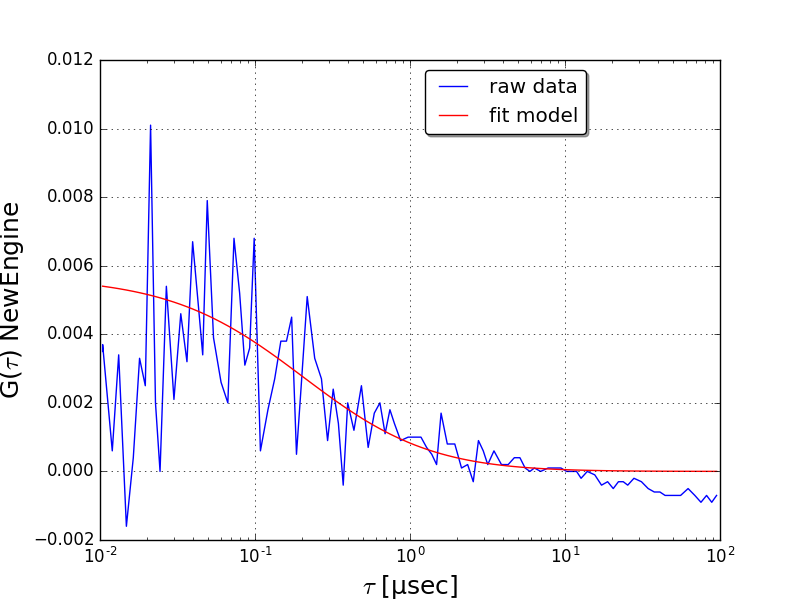
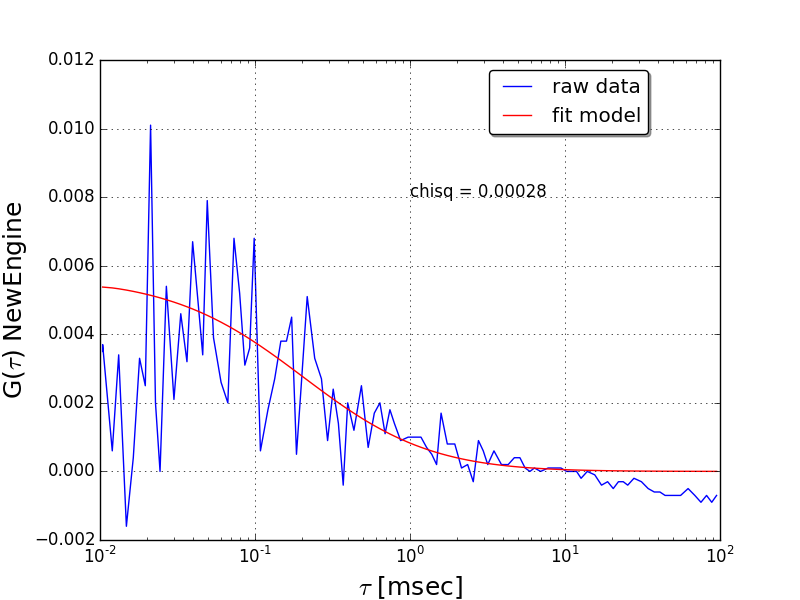
dodanie chi squared
na podstawie dokumnnatacji w scipy https://docs.scipy.org/doc/scipy/reference/generated/scipy.optimize.curve_fit.html

diff --git a/PodFLCS/FIT.py b/PodFLCS/FIT.py
@@ -47,10 +47,12 @@ class FIT:
         self.errT1=perr[2]
         self.errN=perr[3]
         self.fitY=[self.funkcja(x,self.T, self.Tt, self.T1, self.N) for x in X] #wyznacza igreki dopasowania
+        self.r=self.Y-self.funkcja(self.X, *fit[0])
+        self.chisq = sum ((self.r / 1) ** 2)
         return 0
 
     def referuj(self):
-        return[[self.T,self.Tt,self.T1, self.N],[self.errT, self.errTt, self.errT1, self.N],self.fitY]
+        return[[self.T,self.Tt,self.T1, self.N],[self.errT, self.errTt, self.errT1, self.N],self.fitY, self.chisq]
 
     def wykonaj(self):
         self.fitowanie()
@@ -60,16 +62,19 @@ class FIT:
 
 def printNormalizedAverageCurve(tau, G, GFit=None, title=None):
     plt.plot(tau,G,"b", label = "raw data")
+    chisq=None
     try:
         plt.plot(tau,GFit,"r", label = "fit model")
+        chisq = sum(map(lambda x,y: (x-y)**2, G, GFit))
     except ValueError:
         pass
 
     plt.xscale('log', nonposy='clip')
 
-    plt.xlabel(r"$\tau$ "+  u"[\u00B5sec]", fontsize = 18)
+    plt.xlabel(r"$\tau$ "+  "[msec]", fontsize = 18)
     plt.ylabel(r"G($\tau$) "+title, fontsize=18)
-    plt.legend(  bbox_to_anchor=(0.8, 1), fancybox=True, shadow=True)
+    plt.legend(  bbox_to_anchor=(0.9, 1), fancybox=True, shadow=True)
+    plt.text(1, 0.008, u'chisq = %.5f' %(chisq))
 
     plt.grid(True)
     plt.savefig(os.path.join(path, "AverageNormalizeFCSCurve %s.png" %(title)))
@@ -80,6 +85,7 @@ def printResults(F):
         print "Tt: ", F[0][1], " +/- ", F[1][1]
         print "T1: ", F[0][2], " +/- ", F[1][2]
         print "N: ", F[0][3], " +/- ", F[1][3]
+        print "chi squared: ", F[3]
 
 
 if __name__ == '__main__':

diff --git a/PodFLCS/Main.py b/PodFLCS/Main.py
@@ -94,7 +94,7 @@ def main():
 
     #wexzmy sobie jedna krzywa i pobawmy sie nia
 
-    #LISTA_KRZYWYCH[0].printCurvewithFit()
+    LISTA_KRZYWYCH[0].printCurvewithFit()
 
 
     pass
